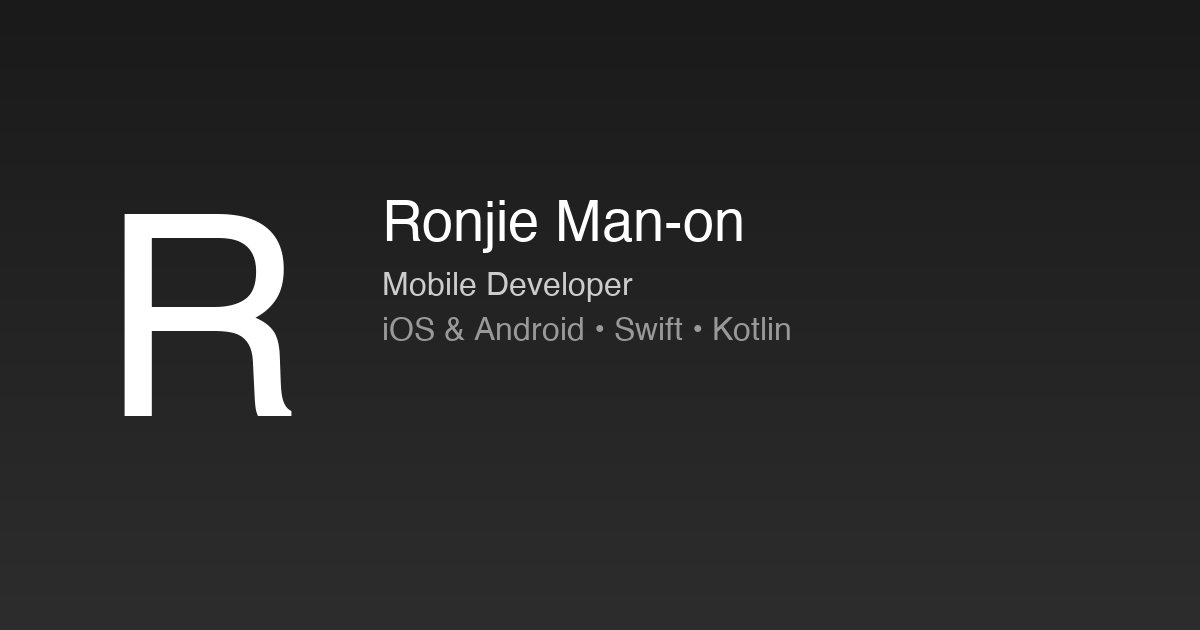
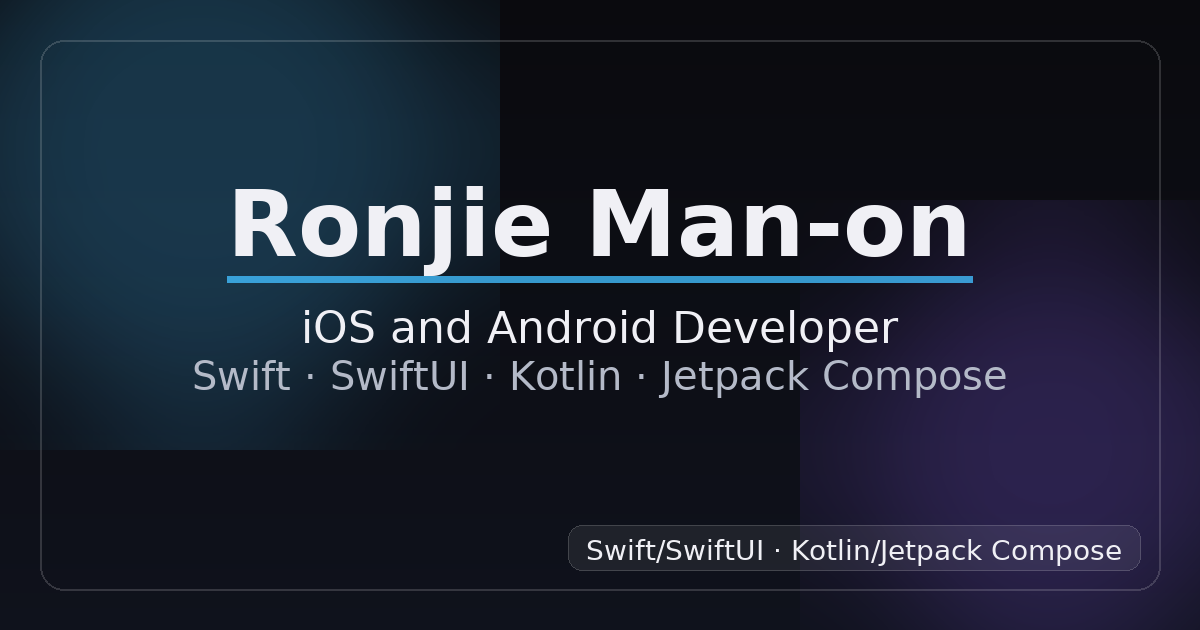
feat: Add SEO enhancements for web deployment
This commit introduces several SEO improvements for the web version of the portfolio to enhance its visibility and search engine ranking.

- **`index.html`:**
    - Adds a canonical URL link to prevent duplicate content issues.
    - Implements JSON-LD structured data (`Person` schema) to provide rich context to search engines about the developer's profile, skills, and social links.
    - Updates Open Graph and Twitter card URLs to point to the new canonical domain.
    - Adds a new `og-image.png` with updated content for social sharing previews.

- **`robots.txt` & `sitemap.xml`:**
    - Adds a `robots.txt` file to allow all user agents to crawl the site.
    - Includes a `sitemap.xml` file, listing the main URL to help search engines discover and index the page.

- **`.github/workflows/deploy-vercel.yml`:**
    - Updates the deployment workflow to copy `robots.txt` and `sitemap.xml` to the final deployment directory, ensuring they are accessible on the live site.

diff --git a/composeApp/src/webMain/resources/index.html b/composeApp/src/webMain/resources/index.html
@@ -12,17 +12,17 @@
 
     <!-- Open Graph / Facebook -->
     <meta property="og:type" content="website">
-    <meta property="og:url" content="https://portfolio-ronjies-projects.vercel.app/">
+    <meta property="og:url" content="https://portfolio-rdmanon.vercel.app/">
     <meta property="og:title" content="Ronjie Man-on — Mobile Developer">
     <meta property="og:description" content="iOS & Android Mobile Developer specialized in Swift, SwiftUI, Kotlin, and Jetpack Compose. Building beautiful cross-platform mobile applications.">
-    <meta property="og:image" content="https://portfolio-ronjies-projects.vercel.app/og-image.png">
+    <meta property="og:image" content="https://portfolio-rdmanon.vercel.app/og-image.png">
 
     <!-- Twitter -->
     <meta property="twitter:card" content="summary_large_image">
-    <meta property="twitter:url" content="https://portfolio-ronjies-projects.vercel.app/">
+    <meta property="twitter:url" content="https://portfolio-rdmanon.vercel.app/">
     <meta property="twitter:title" content="Ronjie Man-on — Mobile Developer">
     <meta property="twitter:description" content="iOS & Android Mobile Developer specialized in Swift, SwiftUI, Kotlin, and Jetpack Compose. Building beautiful cross-platform mobile applications.">
-    <meta property="twitter:image" content="https://portfolio-ronjies-projects.vercel.app/og-image.png">
+    <meta property="twitter:image" content="https://portfolio-rdmanon.vercel.app/og-image.png">
 
     <!-- Favicon -->
     <link rel="icon" type="image/x-icon" href="/favicon.ico">
@@ -32,6 +32,35 @@
 
     <!-- PWA Manifest -->
     <link rel="manifest" href="/manifest.json">
+
+    <!-- Canonical URL -->
+    <link rel="canonical" href="https://portfolio-rdmanon.vercel.app/">
+
+    <!-- JSON-LD Structured Data -->
+    <script type="application/ld+json">
+    {
+      "@context": "https://schema.org",
+      "@type": "Person",
+      "name": "Ronjie Man-on",
+      "url": "https://portfolio-rdmanon.vercel.app/",
+      "jobTitle": "Mobile Developer",
+      "description": "iOS & Android Mobile Developer specialized in Swift, SwiftUI, Kotlin, and Jetpack Compose",
+      "knowsAbout": [
+        "iOS Development",
+        "Android Development",
+        "Swift",
+        "SwiftUI",
+        "Kotlin",
+        "Jetpack Compose",
+        "Kotlin Multiplatform",
+        "Mobile Development"
+      ],
+      "sameAs": [
+        "https://github.com/itsmeronjie",
+        "https://www.linkedin.com/in/ronjiemanon"
+      ]
+    }
+    </script>
 
     <link href="styles.css" rel="stylesheet" type="text/css">
 
